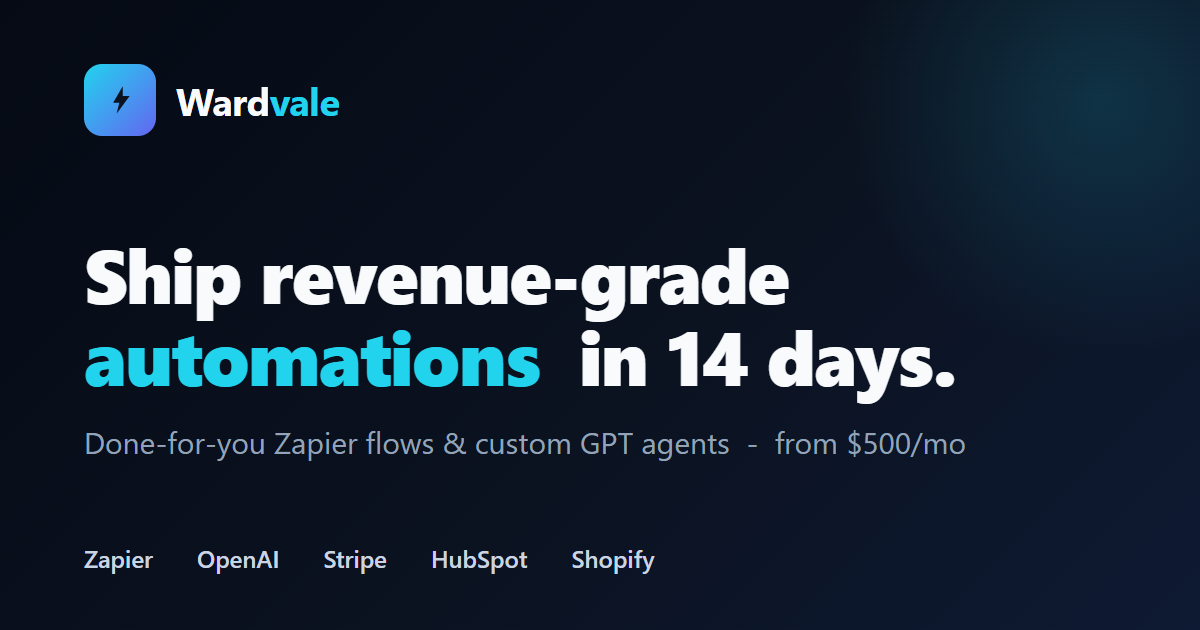
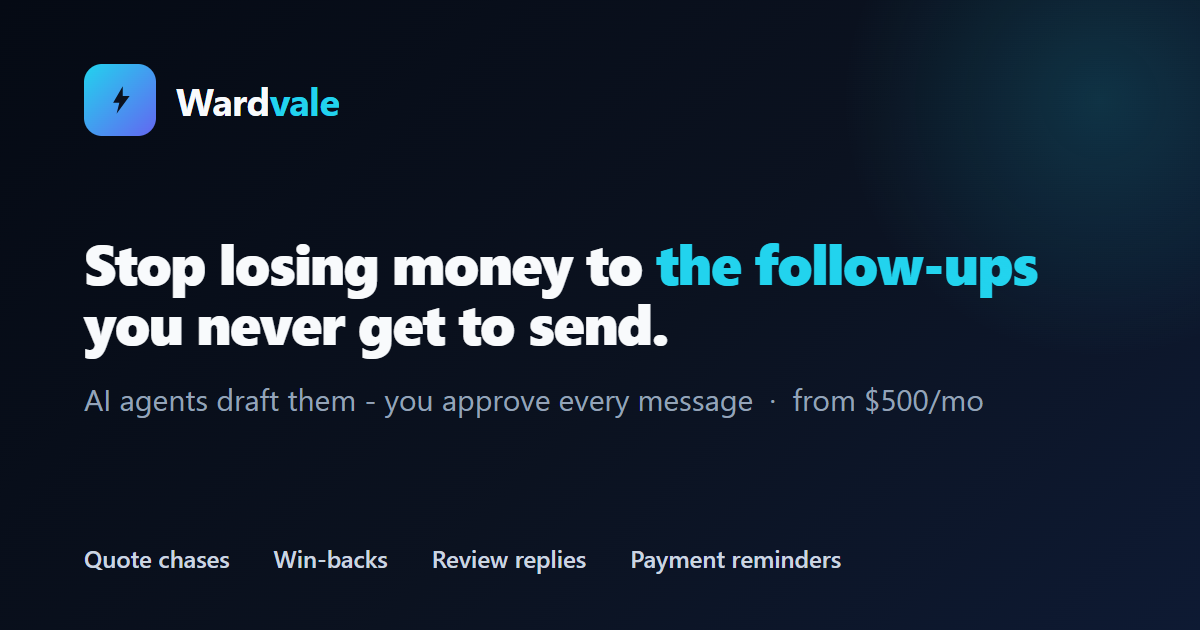
Conversion rewrite: hero, SEO metadata, OG image, footer
The hero was the last relic of the old agency positioning — selling the
mechanism ("Zapier flows in 14 days") instead of the loss it stops.

New positioning, grounded in the July 2026 pain research (the #1 SMB
revenue leak is the follow-up that never gets sent):

  "Stop losing money to the follow-ups you never get to send."
  Sub: agents draft the quote chases, review replies, win-backs and
  payment reminders your day never leaves room for — nothing sends
  until you tap approve. From $500/mo.

- Hero title + sub across 5 locales (25 values)
- layout.tsx: meta title/description, keywords, OG + Twitter cards,
  JSON-LD org description → "AI back office, you approve every send"
- opengraph-image.png regenerated with the new headline
- footer.desc x5 aligned

Every claim in the new copy is product-true: the named follow-ups map
1:1 to shipped agents, approval-first is enforced by the runtime, $500
is the real Starter price.

Verified: 182 tests, typecheck+lint clean, prod build OK, home renders
zero occurrences of the old positioning in EN and ES.

Changed region(s): [[0.0617, 0.3619, 0.8633, 0.7238], [0.0617, 0.8746, 0.7092, 0.9048]]

diff --git a/lib/i18n.ts b/lib/i18n.ts
@@ -313,11 +313,11 @@ const en: Dict = {
 
   // ── Hero ──
   "hero.badge": "Premium AI automation for small business",
-  "hero.title.1": "Ship revenue-grade",
-  "hero.title.2": "automations",
-  "hero.title.3": "in 14 days —",
-  "hero.title.4": "not 14 weeks.",
-  "hero.sub": "Wardvale builds done-for-you Zapier flows and custom GPT agents for restaurants, e-com stores and local service owners. Recurring retainers from",
+  "hero.title.1": "Stop losing money to",
+  "hero.title.2": "the follow-ups",
+  "hero.title.3": "you never get to",
+  "hero.title.4": "send.",
+  "hero.sub": "Wardvale's AI agents draft the quote chases, review replies, win-back messages and payment reminders your day never leaves room for — and nothing sends until you tap approve. From",
   "hero.sub.price": "$500/mo",
   "hero.ctaPrimary": "Get my free 60s audit",
   "hero.ctaSecondary": "See live results",
@@ -662,7 +662,7 @@ const en: Dict = {
   "chat.welcome": "Hey! I'm the Wardvale assistant. Ask me about our services, pricing, or how automation could work for your business.",
 
   // ── Footer ──
-  "footer.desc": "Premium AI automation for small business. Done-for-you Zapier flows and custom GPT agents, on monthly retainers from $500.",
+  "footer.desc": "The AI back office for small business. Agents draft your follow-ups; you approve every message. From $500/mo.",
   "footer.agency": "Agency",
   "footer.resources": "Resources",
   "footer.roiCalc": "2026 ROI Calculator (PDF)",
@@ -2088,11 +2088,11 @@ const es: Dict = {
 
   // ── Hero ──
   "hero.badge": "Automatización IA premium para pymes",
-  "hero.title.1": "Automatizaciones que generan",
-  "hero.title.2": "ingresos",
-  "hero.title.3": "en 14 días —",
-  "hero.title.4": "no 14 semanas.",
-  "hero.sub": "Wardvale construye flujos Zapier y agentes GPT a medida para restaurantes, e-commerce y negocios locales. Retainers desde",
+  "hero.title.1": "Deja de perder dinero por",
+  "hero.title.2": "los seguimientos",
+  "hero.title.3": "que nunca llegas a",
+  "hero.title.4": "enviar.",
+  "hero.sub": "Los agentes de IA de Wardvale redactan los seguimientos de presupuestos, respuestas a reseñas, mensajes de recuperación y recordatorios de pago para los que tu día nunca da — y nada se envía hasta que tú lo apruebas. Desde",
   "hero.sub.price": "500 $/mes",
   "hero.ctaPrimary": "Auditoría gratuita 60s",
   "hero.ctaSecondary": "Ver resultados",
@@ -2423,7 +2423,7 @@ const es: Dict = {
   "chat.welcome": "¡Hola! Soy el asistente IA de Wardvale. Pregúntame sobre nuestros servicios, precios o cómo la automatización puede funcionar para tu negocio.",
 
   // ── Footer ──
-  "footer.desc": "Automatización IA premium para pymes. Flujos Zapier y agentes GPT a medida, en retainers mensuales desde 500 $.",
+  "footer.desc": "El back office de IA para pymes. Los agentes redactan tus seguimientos; tú apruebas cada mensaje. Desde 500 $/mes.",
   "footer.agency": "Agencia",
   "footer.resources": "Recursos",
   "footer.roiCalc": "Calculadora ROI 2026 (PDF)",
@@ -3849,11 +3849,11 @@ const fr: Dict = {
 
   // ── Hero ──
   "hero.badge": "Automatisation IA premium pour PME",
-  "hero.title.1": "Des automatisations qui génèrent du",
-  "hero.title.2": "revenu",
-  "hero.title.3": "en 14 jours —",
-  "hero.title.4": "pas 14 semaines.",
-  "hero.sub": "Wardvale construit vos flux Zapier et agents GPT sur mesure pour restaurants, e-commerce et services locaux. Retainers à partir de",
+  "hero.title.1": "Arrêtez de perdre de l'argent sur",
+  "hero.title.2": "les relances",
+  "hero.title.3": "que vous n'envoyez",
+  "hero.title.4": "jamais.",
+  "hero.sub": "Les agents IA de Wardvale rédigent les relances de devis, réponses aux avis, messages de reconquête et rappels de paiement que votre journée ne permet jamais — et rien ne part sans votre validation. À partir de",
   "hero.sub.price": "500 $/mois",
   "hero.ctaPrimary": "Audit gratuit 60s",
   "hero.ctaSecondary": "Voir les résultats",
@@ -4184,7 +4184,7 @@ const fr: Dict = {
   "chat.welcome": "Bonjour ! Je suis l'assistant IA de Wardvale. Posez-moi des questions sur nos services, tarifs ou comment l'automatisation pourrait fonctionner pour votre entreprise.",
 
   // ── Footer ──
-  "footer.desc": "Automatisation IA premium pour PME. Flux Zapier et agents GPT sur mesure, en retainers mensuels à partir de 500 $.",
+  "footer.desc": "Le back-office IA des petites entreprises. Les agents rédigent vos relances ; vous validez chaque message. À partir de 500 $/mois.",
   "footer.agency": "Agence",
   "footer.resources": "Ressources",
   "footer.roiCalc": "Calculateur ROI 2026 (PDF)",
@@ -5604,11 +5604,11 @@ const pt: Dict = {
   "nav.cta": "Auditoria Grátis",
 
   "hero.badge": "Automação com IA premium para pequenos negócios",
-  "hero.title.1": "Coloque automações",
-  "hero.title.2": "de verdade",
-  "hero.title.3": "no ar em 14 dias —",
-  "hero.title.4": "não 14 semanas.",
-  "hero.sub": "A Wardvale cria fluxos Zapier e agentes GPT sob medida para restaurantes, e-commerces e negócios locais. Mensalidades a partir de",
+  "hero.title.1": "Pare de perder dinheiro com",
+  "hero.title.2": "os follow-ups",
+  "hero.title.3": "que você nunca consegue",
+  "hero.title.4": "enviar.",
+  "hero.sub": "Os agentes de IA da Wardvale redigem as cobranças de orçamentos, respostas a avaliações, mensagens de resgate e lembretes de pagamento que o seu dia nunca permite — e nada é enviado até você aprovar. A partir de",
   "hero.sub.price": "US$ 500/mês",
   "hero.ctaPrimary": "Quero minha auditoria de 60s",
   "hero.ctaSecondary": "Ver resultados reais",
@@ -5927,7 +5927,7 @@ const pt: Dict = {
   "chat.placeholder": "Pergunte sobre preços, serviços, integrações…",
   "chat.welcome": "Oi! Sou o assistente da Wardvale. Pergunte sobre nossos serviços, preços ou como a automação pode funcionar no seu negócio.",
 
-  "footer.desc": "Automação com IA premium para pequenos negócios. Fluxos Zapier e agentes GPT sob medida, em mensalidades a partir de US$ 500.",
+  "footer.desc": "O back office de IA para pequenos negócios. Os agentes redigem os seus follow-ups; você aprova cada mensagem. A partir de US$ 500/mês.",
   "footer.agency": "Agência",
   "footer.resources": "Recursos",
   "footer.roiCalc": "Calculadora de ROI 2026 (PDF)",
@@ -7346,11 +7346,11 @@ const de: Dict = {
   "nav.cta": "Gratis-Audit",
 
   "hero.badge": "Premium-KI-Automatisierung für kleine Unternehmen",
-  "hero.title.1": "Umsatzstarke",
-  "hero.title.2": "Automationen",
-  "hero.title.3": "in 14 Tagen —",
-  "hero.title.4": "nicht 14 Wochen.",
-  "hero.sub": "Wardvale baut fertige Zapier-Flows und maßgeschneiderte GPT-Agenten für Restaurants, Onlineshops und lokale Dienstleister. Monatliche Pakete ab",
+  "hero.title.1": "Schluss mit Geldverlust durch",
+  "hero.title.2": "die Nachfassnachrichten,",
+  "hero.title.3": "die du nie",
+  "hero.title.4": "abschickst.",
+  "hero.sub": "Wardvales KI-Agenten entwerfen die Angebots-Nachfassungen, Bewertungsantworten, Rückgewinnungsnachrichten und Zahlungserinnerungen, für die dein Tag nie reicht — und nichts wird gesendet, bevor du es freigibst. Ab",
   "hero.sub.price": "500 $/Monat",
   "hero.ctaPrimary": "Mein 60-Sek-Audit holen",
   "hero.ctaSecondary": "Echte Ergebnisse ansehen",
@@ -7669,7 +7669,7 @@ const de: Dict = {
   "chat.placeholder": "Fragen Sie nach Preisen, Leistungen, Integrationen…",
   "chat.welcome": "Hi! Ich bin der Wardvale-KI-Assistent. Fragen Sie mich nach Leistungen, Preisen oder wie Automatisierung für Ihr Business funktionieren kann.",
 
-  "footer.desc": "Premium-KI-Automatisierung für kleine Unternehmen. Fertige Zapier-Flows und individuelle GPT-Agenten, in Monatspaketen ab 500 $.",
+  "footer.desc": "Das KI-Backoffice für kleine Unternehmen. Agenten entwerfen deine Nachfassnachrichten; du gibst jede frei. Ab 500 $/Monat.",
   "footer.agency": "Agentur",
   "footer.resources": "Ressourcen",
   "footer.roiCalc": "ROI-Rechner 2026 (PDF)",

diff --git a/app/layout.tsx b/app/layout.tsx
@@ -18,28 +18,28 @@ export const metadata: Metadata = {
   metadataBase: new URL(siteUrl),
   title: {
     default:
-      "Wardvale — Premium AI Automation for Small Business | Zapier + GPT Agents",
+      "Wardvale — The AI Back Office for Small Business | You Approve Every Send",
     template: "%s | Wardvale",
   },
   description:
-    "Wardvale builds done-for-you Zapier flows and custom GPT agents for restaurants, e-commerce stores, consultants, and local service businesses. Recurring retainers from $500/mo. Ship revenue-grade automations in 14 days.",
+    "Wardvale's AI agents draft the follow-ups your day never leaves room for — quote chases, review replies, win-backs, payment reminders — and nothing sends until you tap approve. From $500/mo.",
   keywords: [
-    "AI automation agency",
-    "Zapier automation service",
-    "GPT agents for small business",
+    "AI back office",
+    "AI agents for small business",
+    "quote follow-up automation",
+    "customer win-back automation",
+    "review response AI",
+    "no-show reduction",
+    "invoice follow-up automation",
     "AI automation for restaurants",
-    "e-commerce automation",
-    "lead capture automation",
-    "inbox triage AI",
-    "onboarding automation",
-    "AI micro agency",
-    "automation retainer",
+    "AI agents for salons",
+    "AI for contractors",
+    "human-in-the-loop AI",
     "Wardvale",
     "done for you automation",
     "small business AI",
-    "custom GPT agent",
-    "Zapier expert",
-    "automation consulting",
+    "AI approval workflow",
+    "abandoned cart recovery",
   ],
   authors: [{ name: "Wardvale" }],
   creator: "Wardvale",
@@ -60,16 +60,16 @@ export const metadata: Metadata = {
     locale: "en_US",
     url: siteUrl,
     siteName: "Wardvale",
-    title: "Wardvale — Premium AI Automation for Small Business",
+    title: "Wardvale — The AI Back Office for Small Business",
     description:
-      "Done-for-you Zapier flows and custom GPT agents for restaurants, e-com stores, consultants, and local service businesses. From $500/mo.",
+      "AI agents draft the follow-ups you never get to send — quote chases, win-backs, review replies. You approve every message. From $500/mo.",
     // Social card image is generated by app/opengraph-image.tsx (file convention).
   },
   twitter: {
     card: "summary_large_image",
-    title: "Wardvale — Premium AI Automation for Small Business",
+    title: "Wardvale — The AI Back Office for Small Business",
     description:
-      "Done-for-you Zapier flows and GPT agents. Ship in 14 days, from $500/mo.",
+      "AI agents draft the follow-ups you never get to send. You approve every message. From $500/mo.",
     creator: "@wardvaleai",
   },
   // No global canonical — it would force every page to canonicalize to "/".
@@ -90,7 +90,7 @@ const jsonLd = {
       url: siteUrl,
       logo: `${siteUrl}/logo.svg`,
       description:
-        "Premium AI automation agency building done-for-you Zapier flows and custom GPT agents for small businesses.",
+        "The AI back office for small businesses: agents that draft quote follow-ups, win-backs, review replies and payment reminders — every message approved by the owner before it sends.",
       contactPoint: {
         "@type": "ContactPoint",
         email: "[email redacted]",